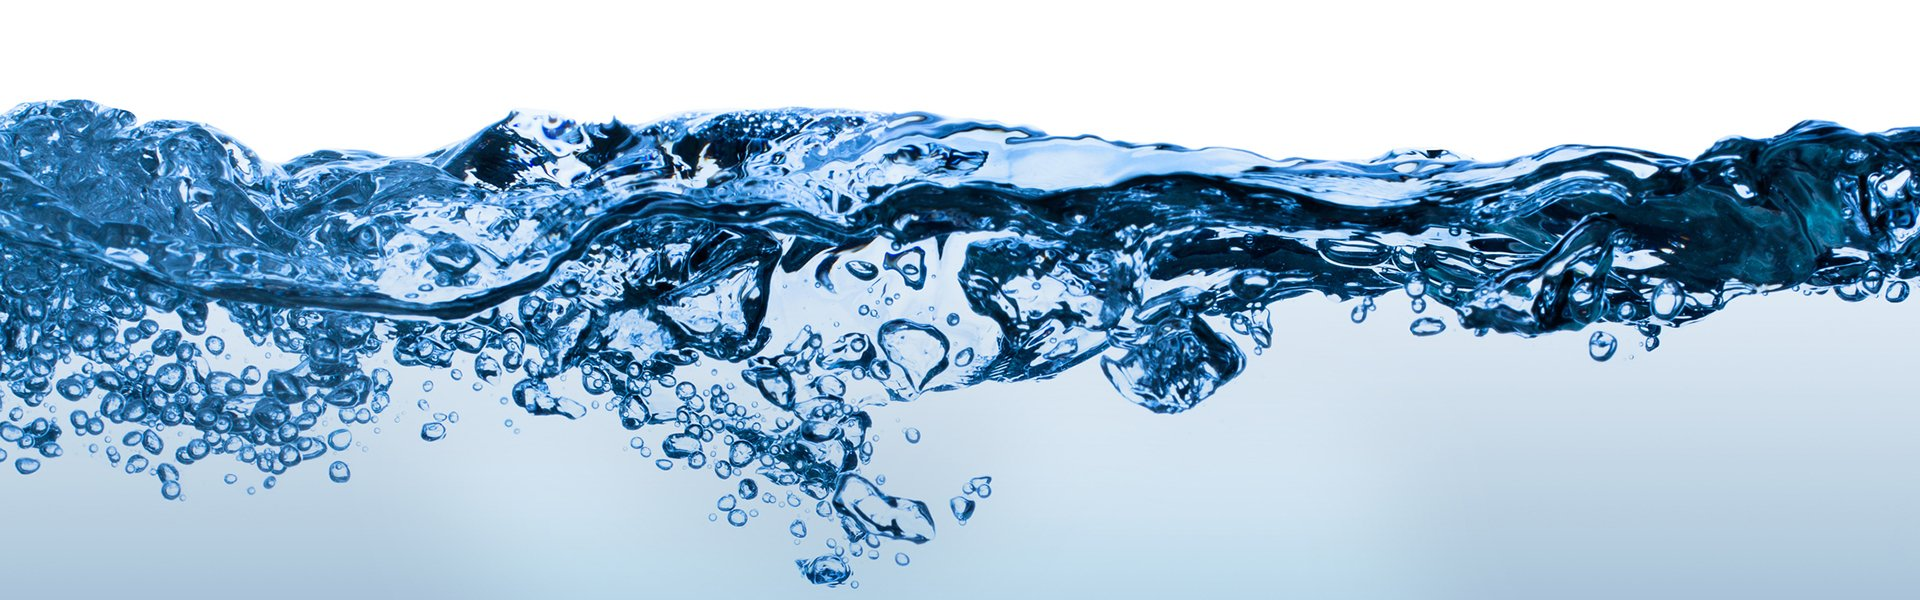
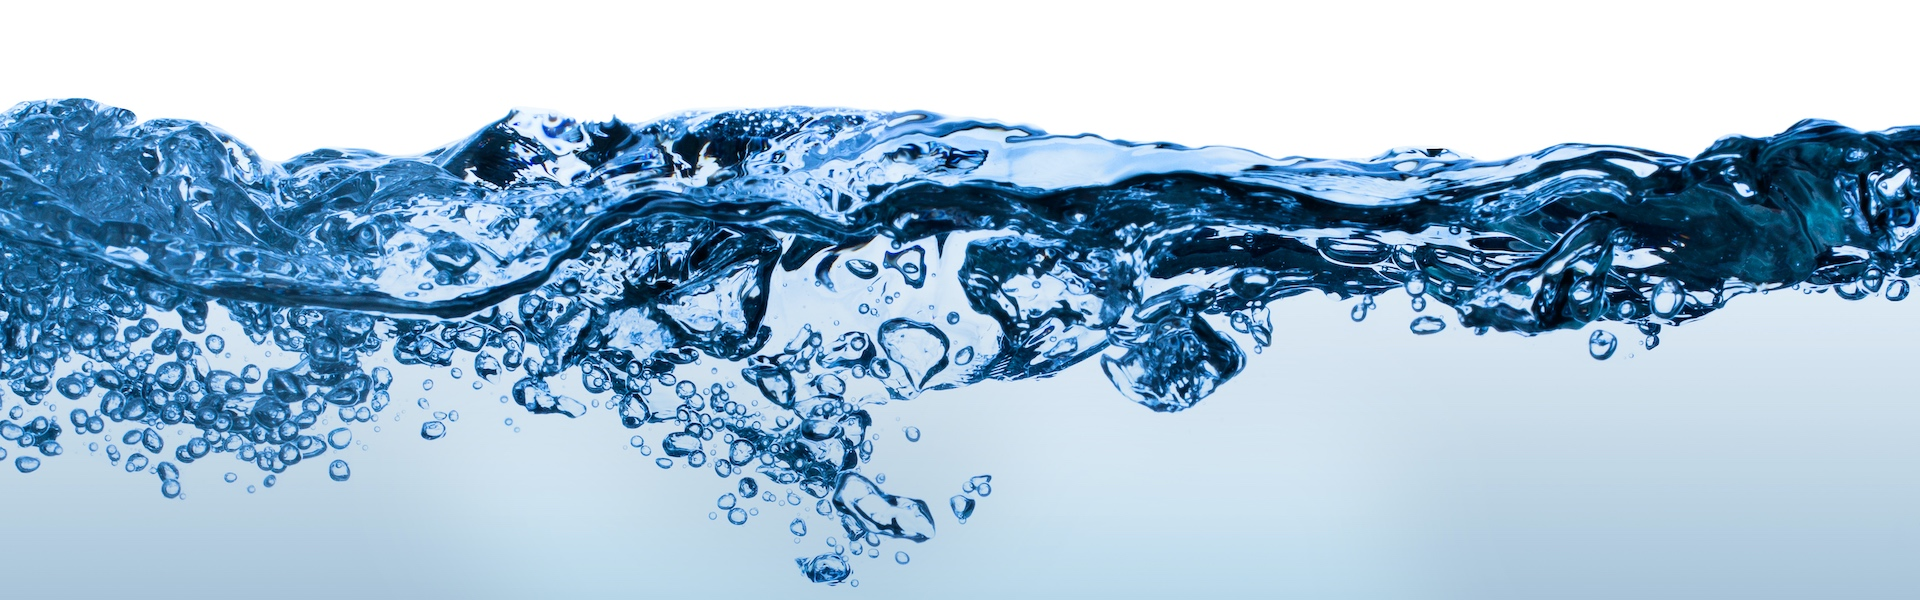
add licensed stock photo and credit

Changed region(s): [[0.0, 0.15, 1.0, 0.99]]

diff --git a/public/css/background.css b/public/css/background.css
@@ -1,4 +1,9 @@
 body {
+    /*
+    Background Photo Credit:
+    https://www.istockphoto.com/photo/the-water-surface-with-underwater-bubbles-gm512543300-87208021
+    by Evgeny_P. Obtained Standard License for use (https://www.istockphoto.com/help/licenses)
+    */
     background-image: url('../images/waterBanner.jpg');
     background-repeat: no-repeat;
     background-attachment: fixed;
